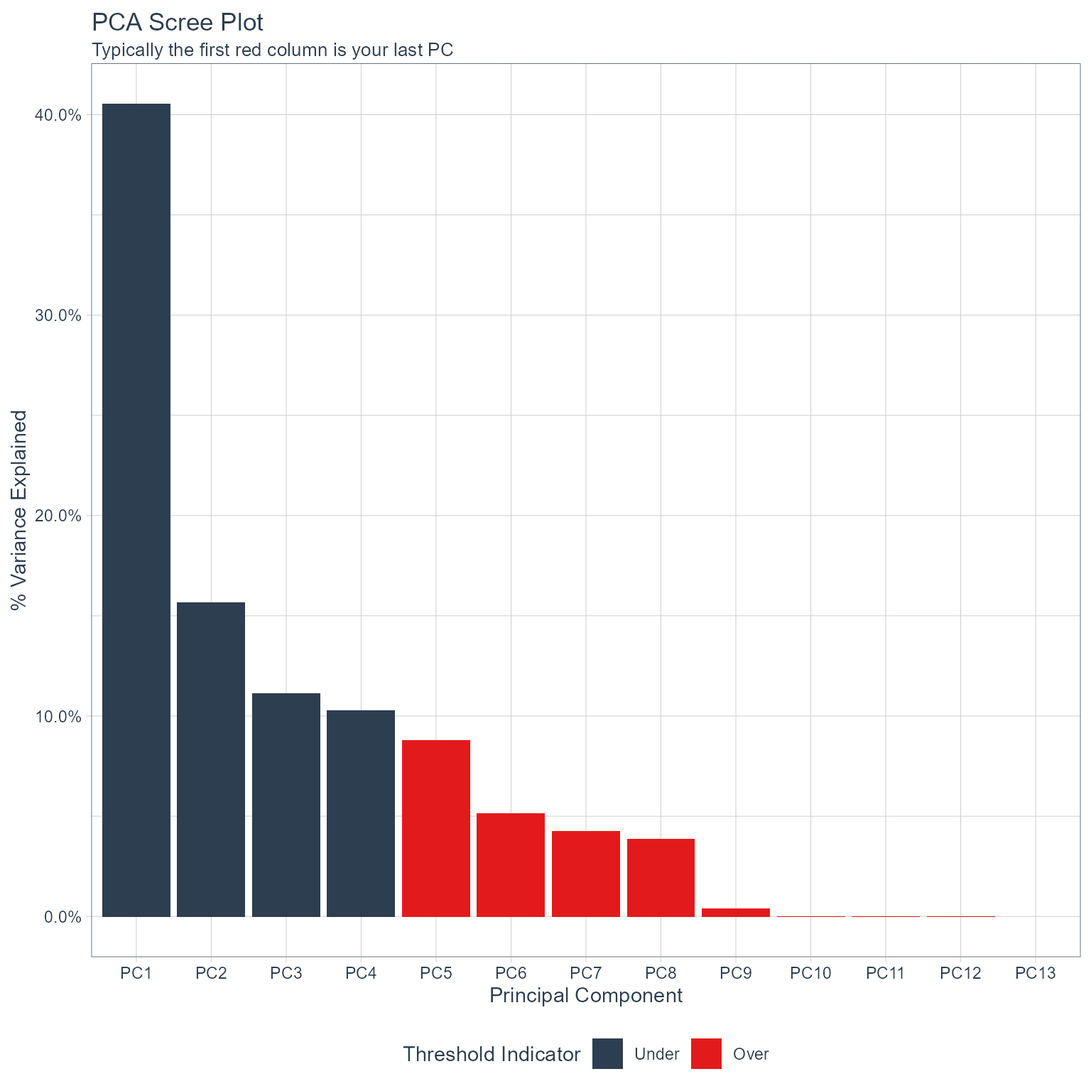
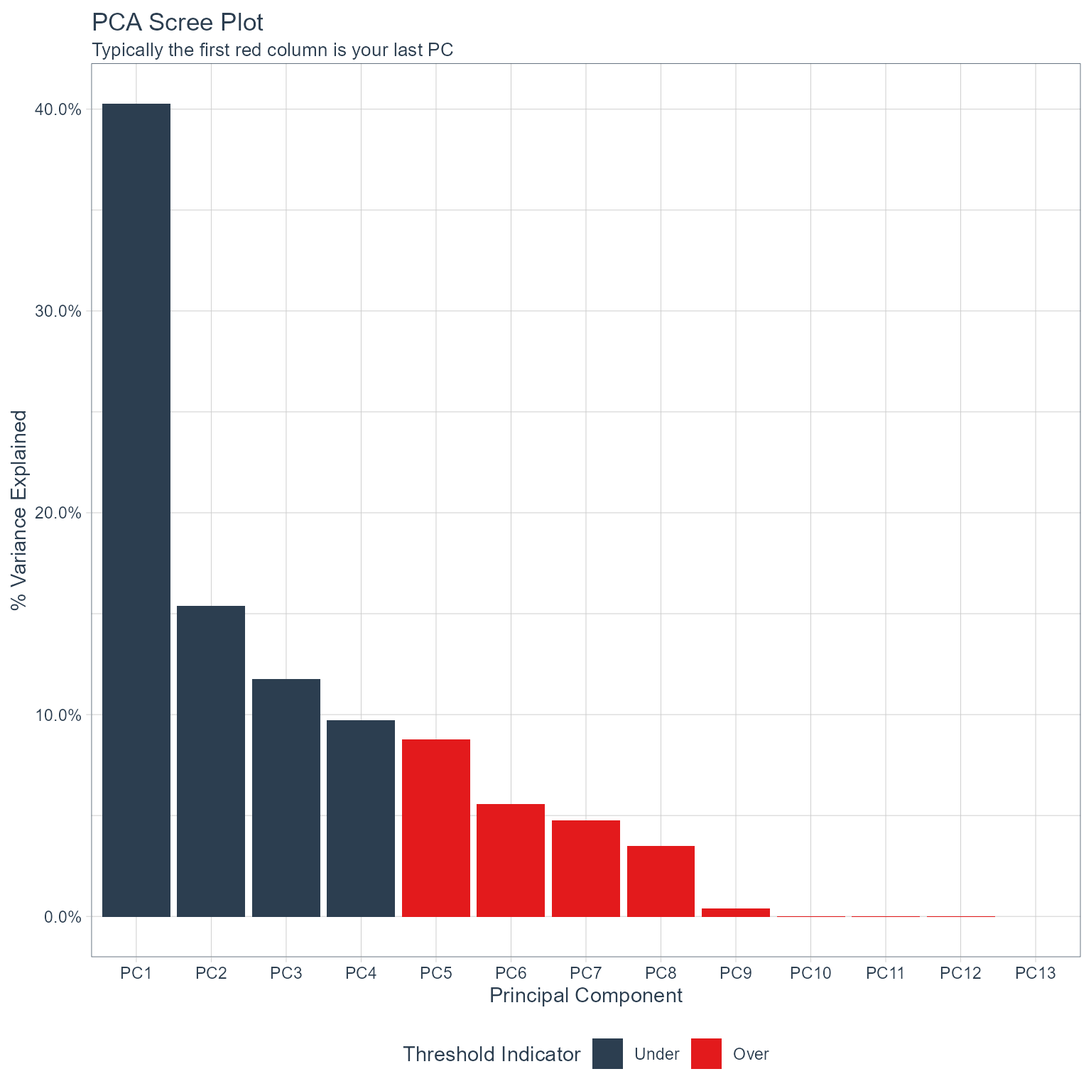
rebuild site

diff --git a/docs/articles/getting-started.html b/docs/articles/getting-started.html
@@ -37,7 +37,7 @@
       </button>
       <span class="navbar-brand">
         <a class="navbar-link" href="../index.html">healthyR.ai</a>
-        <span class="version label label-default" data-toggle="tooltip" data-placement="bottom" title="Released version">0.0.1.9000</span>
+        <span class="version label label-default" data-toggle="tooltip" data-placement="bottom" title="Released version">0.0.2</span>
       </span>
     </div>
 
@@ -173,11 +173,11 @@
 <span class="co">#&gt;   date_col            value</span>
 <span class="co">#&gt;   &lt;dttm&gt;              &lt;int&gt;</span>
 <span class="co">#&gt; 1 2018-05-01 00:00:00  1677</span>
-<span class="co">#&gt; 2 2013-05-01 00:00:00  2028</span>
-<span class="co">#&gt; 3 2018-08-01 00:00:00  1609</span>
-<span class="co">#&gt; 4 2014-12-01 00:00:00  1757</span>
-<span class="co">#&gt; 5 2015-08-01 00:00:00  1609</span>
-<span class="co">#&gt; 6 2015-12-01 00:00:00  1571</span></code></pre></div>
+<span class="co">#&gt; 2 2018-12-01 00:00:00  1397</span>
+<span class="co">#&gt; 3 2014-11-01 00:00:00  1464</span>
+<span class="co">#&gt; 4 2016-01-01 00:00:00  1510</span>
+<span class="co">#&gt; 5 2014-12-01 00:00:00  1757</span>
+<span class="co">#&gt; 6 2019-09-01 00:00:00  1364</span></code></pre></div>
 </div>
 <div id="initial-recipe" class="section level2">
 <h2 class="hasAnchor">
@@ -204,25 +204,25 @@
 <span class="fu"><a href="../reference/get_juiced_data.html">get_juiced_data</a></span><span class="op">(</span><span class="va">rec_obj</span><span class="op">)</span> <span class="op">%&gt;%</span> <span class="fu"><a href="https://pillar.r-lib.org/reference/glimpse.html">glimpse</a></span><span class="op">(</span><span class="op">)</span>
 <span class="co">#&gt; Rows: 76</span>
 <span class="co">#&gt; Columns: 20</span>
-<span class="co">#&gt; $ date_col           &lt;dttm&gt; 2018-05-01, 2013-05-01, 2018-08-01, 2014-12-01, 20~</span>
-<span class="co">#&gt; $ value              &lt;int&gt; 1677, 2028, 1609, 1757, 1609, 1571, 1607, 1513, 161~</span>
-<span class="co">#&gt; $ date_col_index.num &lt;dbl&gt; 1525132800, 1367366400, 1533081600, 1417392000, 143~</span>
-<span class="co">#&gt; $ date_col_year      &lt;int&gt; 2018, 2013, 2018, 2014, 2015, 2015, 2017, 2016, 201~</span>
-<span class="co">#&gt; $ date_col_half      &lt;int&gt; 1, 1, 2, 2, 2, 2, 2, 2, 1, 2, 1, 1, 2, 2, 1, 2, 1, ~</span>
-<span class="co">#&gt; $ date_col_quarter   &lt;int&gt; 2, 2, 3, 4, 3, 4, 3, 4, 2, 4, 1, 1, 4, 3, 1, 4, 1, ~</span>
-<span class="co">#&gt; $ date_col_month     &lt;int&gt; 5, 5, 8, 12, 8, 12, 8, 11, 4, 12, 3, 3, 11, 9, 2, 1~</span>
-<span class="co">#&gt; $ date_col_month.lbl &lt;ord&gt; May, May, August, December, August, December, Augus~</span>
+<span class="co">#&gt; $ date_col           &lt;dttm&gt; 2018-05-01, 2018-12-01, 2014-11-01, 2016-01-01, 20~</span>
+<span class="co">#&gt; $ value              &lt;int&gt; 1677, 1397, 1464, 1510, 1757, 1364, 1444, 313, 2082~</span>
+<span class="co">#&gt; $ date_col_index.num &lt;dbl&gt; 1525132800, 1543622400, 1414800000, 1451606400, 141~</span>
+<span class="co">#&gt; $ date_col_year      &lt;int&gt; 2018, 2018, 2014, 2016, 2014, 2019, 2016, 2020, 201~</span>
+<span class="co">#&gt; $ date_col_half      &lt;int&gt; 1, 2, 2, 1, 2, 2, 2, 2, 1, 2, 2, 1, 1, 2, 1, 1, 1, ~</span>
+<span class="co">#&gt; $ date_col_quarter   &lt;int&gt; 2, 4, 4, 1, 4, 3, 3, 4, 1, 4, 4, 2, 2, 3, 2, 1, 1, ~</span>
+<span class="co">#&gt; $ date_col_month     &lt;int&gt; 5, 12, 11, 1, 12, 9, 7, 11, 1, 12, 10, 5, 4, 7, 4, ~</span>
+<span class="co">#&gt; $ date_col_month.lbl &lt;ord&gt; May, December, November, January, December, Septemb~</span>
 <span class="co">#&gt; $ date_col_day       &lt;int&gt; 1, 1, 1, 1, 1, 1, 1, 1, 1, 1, 1, 1, 1, 1, 1, 1, 1, ~</span>
-<span class="co">#&gt; $ date_col_wday      &lt;int&gt; 3, 4, 4, 2, 7, 3, 3, 3, 1, 1, 1, 6, 6, 1, 5, 1, 3, ~</span>
-<span class="co">#&gt; $ date_col_wday.lbl  &lt;ord&gt; Tuesday, Wednesday, Wednesday, Monday, Saturday, Tu~</span>
+<span class="co">#&gt; $ date_col_wday      &lt;int&gt; 3, 7, 7, 6, 2, 1, 6, 1, 3, 1, 4, 6, 2, 1, 6, 1, 7, ~</span>
+<span class="co">#&gt; $ date_col_wday.lbl  &lt;ord&gt; Tuesday, Saturday, Saturday, Friday, Monday, Sunday~</span>
 <span class="co">#&gt; $ date_col_mday      &lt;int&gt; 1, 1, 1, 1, 1, 1, 1, 1, 1, 1, 1, 1, 1, 1, 1, 1, 1, ~</span>
-<span class="co">#&gt; $ date_col_qday      &lt;int&gt; 31, 31, 32, 62, 32, 62, 32, 32, 1, 62, 61, 60, 32, ~</span>
-<span class="co">#&gt; $ date_col_yday      &lt;int&gt; 121, 121, 213, 335, 213, 335, 213, 306, 91, 335, 61~</span>
-<span class="co">#&gt; $ date_col_mweek     &lt;int&gt; 5, 5, 5, 6, 5, 5, 6, 6, 5, 5, 5, 5, 5, 5, 5, 5, 5, ~</span>
-<span class="co">#&gt; $ date_col_week      &lt;int&gt; 18, 18, 31, 48, 31, 48, 31, 44, 13, 48, 9, 9, 44, 3~</span>
-<span class="co">#&gt; $ date_col_week2     &lt;int&gt; 0, 0, 1, 0, 1, 0, 1, 0, 1, 0, 1, 1, 0, 1, 1, 0, 1, ~</span>
-<span class="co">#&gt; $ date_col_week3     &lt;int&gt; 0, 0, 1, 0, 1, 0, 1, 2, 1, 0, 0, 0, 2, 2, 2, 2, 0, ~</span>
-<span class="co">#&gt; $ date_col_week4     &lt;int&gt; 2, 2, 3, 0, 3, 0, 3, 0, 1, 0, 1, 1, 0, 3, 1, 0, 1, ~</span>
+<span class="co">#&gt; $ date_col_qday      &lt;int&gt; 31, 62, 32, 1, 62, 63, 1, 32, 1, 62, 1, 31, 1, 1, 1~</span>
+<span class="co">#&gt; $ date_col_yday      &lt;int&gt; 121, 335, 305, 1, 335, 244, 183, 306, 1, 335, 274, ~</span>
+<span class="co">#&gt; $ date_col_mweek     &lt;int&gt; 5, 5, 5, 5, 6, 5, 5, 5, 6, 5, 5, 5, 6, 5, 5, 5, 5, ~</span>
+<span class="co">#&gt; $ date_col_week      &lt;int&gt; 18, 48, 44, 1, 48, 35, 27, 44, 1, 48, 40, 18, 13, 2~</span>
+<span class="co">#&gt; $ date_col_week2     &lt;int&gt; 0, 0, 0, 1, 0, 1, 1, 0, 1, 0, 0, 0, 1, 0, 0, 1, 1, ~</span>
+<span class="co">#&gt; $ date_col_week3     &lt;int&gt; 0, 0, 2, 1, 0, 2, 0, 2, 1, 0, 1, 0, 1, 2, 2, 1, 0, ~</span>
+<span class="co">#&gt; $ date_col_week4     &lt;int&gt; 2, 0, 0, 1, 0, 3, 3, 0, 1, 0, 0, 2, 1, 2, 2, 1, 1, ~</span>
 <span class="co">#&gt; $ date_col_mday7     &lt;int&gt; 1, 1, 1, 1, 1, 1, 1, 1, 1, 1, 1, 1, 1, 1, 1, 1, 1, ~</span></code></pre></div>
 <p>Now that we have out initial recipe we can use the <code><a href="../reference/pca_your_recipe.html">pca_your_recipe()</a></code> function.</p>
 <div class="sourceCode" id="cb6"><pre class="downlit sourceCode r">
@@ -284,18 +284,18 @@
 <div class="sourceCode" id="cb8"><pre class="downlit sourceCode r">
 <code class="sourceCode R"><span class="va">pca_list</span><span class="op">$</span><span class="va">variable_loadings</span>
 <span class="co">#&gt; # A tibble: 169 x 4</span>
-<span class="co">#&gt;    terms                value component id       </span>
-<span class="co">#&gt;    &lt;chr&gt;                &lt;dbl&gt; &lt;chr&gt;     &lt;chr&gt;    </span>
-<span class="co">#&gt;  1 date_col_index.num -0.0734 PC1       pca_EWIda</span>
-<span class="co">#&gt;  2 date_col_year      -0.0172 PC1       pca_EWIda</span>
-<span class="co">#&gt;  3 date_col_half      -0.389  PC1       pca_EWIda</span>
-<span class="co">#&gt;  4 date_col_quarter   -0.430  PC1       pca_EWIda</span>
-<span class="co">#&gt;  5 date_col_month     -0.432  PC1       pca_EWIda</span>
-<span class="co">#&gt;  6 date_col_wday       0.0135 PC1       pca_EWIda</span>
-<span class="co">#&gt;  7 date_col_qday      -0.0575 PC1       pca_EWIda</span>
-<span class="co">#&gt;  8 date_col_yday      -0.432  PC1       pca_EWIda</span>
-<span class="co">#&gt;  9 date_col_mweek      0.0110 PC1       pca_EWIda</span>
-<span class="co">#&gt; 10 date_col_week      -0.433  PC1       pca_EWIda</span>
+<span class="co">#&gt;    terms                 value component id       </span>
+<span class="co">#&gt;    &lt;chr&gt;                 &lt;dbl&gt; &lt;chr&gt;     &lt;chr&gt;    </span>
+<span class="co">#&gt;  1 date_col_index.num -0.0911  PC1       pca_O7eW2</span>
+<span class="co">#&gt;  2 date_col_year      -0.0361  PC1       pca_O7eW2</span>
+<span class="co">#&gt;  3 date_col_half      -0.381   PC1       pca_O7eW2</span>
+<span class="co">#&gt;  4 date_col_quarter   -0.430   PC1       pca_O7eW2</span>
+<span class="co">#&gt;  5 date_col_month     -0.433   PC1       pca_O7eW2</span>
+<span class="co">#&gt;  6 date_col_wday       0.0227  PC1       pca_O7eW2</span>
+<span class="co">#&gt;  7 date_col_qday      -0.0751  PC1       pca_O7eW2</span>
+<span class="co">#&gt;  8 date_col_yday      -0.434   PC1       pca_O7eW2</span>
+<span class="co">#&gt;  9 date_col_mweek      0.00602 PC1       pca_O7eW2</span>
+<span class="co">#&gt; 10 date_col_week      -0.434   PC1       pca_O7eW2</span>
 <span class="co">#&gt; # ... with 159 more rows</span></code></pre></div>
 </div>
 <div id="variable-variance" class="section level2">
@@ -306,16 +306,16 @@
 <span class="co">#&gt; # A tibble: 52 x 4</span>
 <span class="co">#&gt;    terms       value component id       </span>
 <span class="co">#&gt;    &lt;chr&gt;       &lt;dbl&gt;     &lt;int&gt; &lt;chr&gt;    </span>
-<span class="co">#&gt;  1 variance 5.27             1 pca_EWIda</span>
-<span class="co">#&gt;  2 variance 2.04             2 pca_EWIda</span>
-<span class="co">#&gt;  3 variance 1.44             3 pca_EWIda</span>
-<span class="co">#&gt;  4 variance 1.34             4 pca_EWIda</span>
-<span class="co">#&gt;  5 variance 1.14             5 pca_EWIda</span>
-<span class="co">#&gt;  6 variance 0.668            6 pca_EWIda</span>
-<span class="co">#&gt;  7 variance 0.551            7 pca_EWIda</span>
-<span class="co">#&gt;  8 variance 0.501            8 pca_EWIda</span>
-<span class="co">#&gt;  9 variance 0.0505           9 pca_EWIda</span>
-<span class="co">#&gt; 10 variance 0.000188        10 pca_EWIda</span>
+<span class="co">#&gt;  1 variance 5.23             1 pca_O7eW2</span>
+<span class="co">#&gt;  2 variance 2.00             2 pca_O7eW2</span>
+<span class="co">#&gt;  3 variance 1.53             3 pca_O7eW2</span>
+<span class="co">#&gt;  4 variance 1.26             4 pca_O7eW2</span>
+<span class="co">#&gt;  5 variance 1.14             5 pca_O7eW2</span>
+<span class="co">#&gt;  6 variance 0.722            6 pca_O7eW2</span>
+<span class="co">#&gt;  7 variance 0.616            7 pca_O7eW2</span>
+<span class="co">#&gt;  8 variance 0.453            8 pca_O7eW2</span>
+<span class="co">#&gt;  9 variance 0.0507           9 pca_O7eW2</span>
+<span class="co">#&gt; 10 variance 0.000201        10 pca_O7eW2</span>
 <span class="co">#&gt; # ... with 42 more rows</span></code></pre></div>
 </div>
 <div id="pca-estimates" class="section level2">
@@ -349,28 +349,28 @@
 <code class="sourceCode R"><span class="va">pca_list</span><span class="op">$</span><span class="va">pca_juiced_estimates</span> <span class="op">%&gt;%</span> <span class="fu"><a href="https://pillar.r-lib.org/reference/glimpse.html">glimpse</a></span><span class="op">(</span><span class="op">)</span>
 <span class="co">#&gt; Rows: 76</span>
 <span class="co">#&gt; Columns: 9</span>
-<span class="co">#&gt; $ date_col           &lt;dttm&gt; 2018-05-01, 2013-05-01, 2018-08-01, 2014-12-01, 20~</span>
-<span class="co">#&gt; $ value              &lt;dbl&gt; 0.44420607, 1.70467211, 0.20001322, 0.73149178, 0.2~</span>
-<span class="co">#&gt; $ date_col_month.lbl &lt;ord&gt; May, May, August, December, August, December, Augus~</span>
-<span class="co">#&gt; $ date_col_wday.lbl  &lt;ord&gt; Tuesday, Wednesday, Wednesday, Monday, Saturday, Tu~</span>
-<span class="co">#&gt; $ PC1                &lt;dbl&gt; 0.7951243, 0.9976041, -0.8295440, -3.3003520, -0.69~</span>
-<span class="co">#&gt; $ PC2                &lt;dbl&gt; 1.024719161, -1.863790151, 1.398547689, -1.81996574~</span>
-<span class="co">#&gt; $ PC3                &lt;dbl&gt; 0.43940868, 1.29982289, 0.12845365, 0.05336317, 1.0~</span>
-<span class="co">#&gt; $ PC4                &lt;dbl&gt; 1.29280377, 0.71857687, -1.44845494, 1.45857520, -2~</span>
-<span class="co">#&gt; $ PC5                &lt;dbl&gt; 0.46379617, 0.29497541, 0.63780872, 2.01417510, -0.~</span>
+<span class="co">#&gt; $ date_col           &lt;dttm&gt; 2018-05-01, 2018-12-01, 2014-11-01, 2016-01-01, 20~</span>
+<span class="co">#&gt; $ value              &lt;dbl&gt; 0.489147039, -0.581963167, -0.325661797, -0.1496936~</span>
+<span class="co">#&gt; $ date_col_month.lbl &lt;ord&gt; May, December, November, January, December, Septemb~</span>
+<span class="co">#&gt; $ date_col_wday.lbl  &lt;ord&gt; Tuesday, Saturday, Saturday, Friday, Monday, Sunday~</span>
+<span class="co">#&gt; $ PC1                &lt;dbl&gt; 0.98576710, -3.36711466, -2.81740620, 3.43770985, -~</span>
+<span class="co">#&gt; $ PC2                &lt;dbl&gt; -1.2333184, -0.6006759, 1.9189345, 0.2078034, 1.309~</span>
+<span class="co">#&gt; $ PC3                &lt;dbl&gt; 0.79955167, 2.27476536, 0.19668101, 0.11560231, -0.~</span>
+<span class="co">#&gt; $ PC4                &lt;dbl&gt; 0.91467939, 0.71823991, 0.06161711, 0.14290868, 1.6~</span>
+<span class="co">#&gt; $ PC5                &lt;dbl&gt; -0.51312317, 0.21313366, 1.64116030, 1.48569679, -2~</span>
 
 <span class="va">pca_list</span><span class="op">$</span><span class="va">pca_baked_data</span> <span class="op">%&gt;%</span> <span class="fu"><a href="https://pillar.r-lib.org/reference/glimpse.html">glimpse</a></span><span class="op">(</span><span class="op">)</span>
 <span class="co">#&gt; Rows: 95</span>
 <span class="co">#&gt; Columns: 9</span>
 <span class="co">#&gt; $ date_col           &lt;dttm&gt; 2013-01-01, 2013-02-01, 2013-03-01, 2013-04-01, 20~</span>
-<span class="co">#&gt; $ value              &lt;dbl&gt; 1.8985900, 0.5950311, 0.8715436, 1.1193275, 1.70467~</span>
+<span class="co">#&gt; $ value              &lt;dbl&gt; 2.0384314, 0.6498136, 0.9443689, 1.2083210, 1.83186~</span>
 <span class="co">#&gt; $ date_col_month.lbl &lt;ord&gt; January, February, March, April, May, June, July, A~</span>
 <span class="co">#&gt; $ date_col_wday.lbl  &lt;ord&gt; Tuesday, Friday, Friday, Monday, Wednesday, Saturda~</span>
-<span class="co">#&gt; $ PC1                &lt;dbl&gt; 3.2879812, 2.7874888, 2.5187066, 1.8687052, 0.99760~</span>
-<span class="co">#&gt; $ PC2                &lt;dbl&gt; -2.4542472, -1.9187254, -1.6260462, -2.4724542, -1.~</span>
-<span class="co">#&gt; $ PC3                &lt;dbl&gt; -1.52175229, 0.64276524, 2.24486408, -1.65631811, 1~</span>
-<span class="co">#&gt; $ PC4                &lt;dbl&gt; 0.09491197, -1.07798995, 0.29077488, 0.17204592, 0.~</span>
-<span class="co">#&gt; $ PC5                &lt;dbl&gt; 0.36492228, -1.18259550, 0.23267614, 0.74314900, 0.~</span></code></pre></div>
+<span class="co">#&gt; $ PC1                &lt;dbl&gt; 3.5837155, 3.0869114, 2.7723249, 2.1209751, 1.27299~</span>
+<span class="co">#&gt; $ PC2                &lt;dbl&gt; 1.6382029, 2.2004170, 2.0830633, 1.6259727, 1.83570~</span>
+<span class="co">#&gt; $ PC3                &lt;dbl&gt; -2.021317505, -0.009637394, 1.775013029, -2.1812898~</span>
+<span class="co">#&gt; $ PC4                &lt;dbl&gt; 0.82407769, -0.29633646, 0.48156940, 0.80256384, 0.~</span>
+<span class="co">#&gt; $ PC5                &lt;dbl&gt; -0.36560302, 1.03957581, -0.60071472, -0.69735895, ~</span></code></pre></div>
 </div>
 <div id="roatation-data" class="section level2">
 <h2 class="hasAnchor">
@@ -379,19 +379,19 @@
 <code class="sourceCode R"><span class="va">pca_list</span><span class="op">$</span><span class="va">pca_rotation_df</span> <span class="op">%&gt;%</span> <span class="fu"><a href="https://pillar.r-lib.org/reference/glimpse.html">glimpse</a></span><span class="op">(</span><span class="op">)</span>
 <span class="co">#&gt; Rows: 13</span>
 <span class="co">#&gt; Columns: 13</span>
-<span class="co">#&gt; $ PC1  &lt;dbl&gt; -0.07342951, -0.01722814, -0.38888905, -0.42961444, -0.43223047, ~</span>
-<span class="co">#&gt; $ PC2  &lt;dbl&gt; 0.673262059, 0.680910806, 0.006616319, -0.028768692, -0.007279424~</span>
-<span class="co">#&gt; $ PC3  &lt;dbl&gt; -0.15042518, -0.15944144, -0.09489832, -0.07889143, 0.05890836, 0~</span>
-<span class="co">#&gt; $ PC4  &lt;dbl&gt; 0.09610008, 0.10084495, -0.25177677, -0.01804387, -0.02726268, -0~</span>
-<span class="co">#&gt; $ PC5  &lt;dbl&gt; -1.456364e-02, -2.373429e-02, 4.509555e-05, -4.172353e-02, 6.9909~</span>
-<span class="co">#&gt; $ PC6  &lt;dbl&gt; -0.003400719, -0.002163532, 0.042757378, -0.040419757, -0.0112554~</span>
-<span class="co">#&gt; $ PC7  &lt;dbl&gt; 0.071493154, 0.072864507, -0.299697592, -0.129861375, -0.00790362~</span>
-<span class="co">#&gt; $ PC8  &lt;dbl&gt; -0.013757290, -0.007292406, -0.210675968, -0.007845576, -0.046858~</span>
-<span class="co">#&gt; $ PC9  &lt;dbl&gt; 0.005619875, -0.024384885, -0.800157086, 0.277447715, 0.226306334~</span>
-<span class="co">#&gt; $ PC10 &lt;dbl&gt; 0.0146983983, -0.0114145842, 0.0054730982, 0.2978246363, 0.375090~</span>
-<span class="co">#&gt; $ PC11 &lt;dbl&gt; -0.0242620357, 0.0246547277, -0.0015196111, -0.1589647753, 0.7153~</span>
-<span class="co">#&gt; $ PC12 &lt;dbl&gt; -2.864529e-03, 2.316738e-03, -3.076775e-03, -7.716709e-01, 3.1311~</span>
-<span class="co">#&gt; $ PC13 &lt;dbl&gt; -7.092917e-01, 7.022847e-01, 6.353486e-05, 3.649223e-02, 4.214297~</span></code></pre></div>
+<span class="co">#&gt; $ PC1  &lt;dbl&gt; -0.091111026, -0.036124528, -0.381236289, -0.429587692, -0.433436~</span>
+<span class="co">#&gt; $ PC2  &lt;dbl&gt; -0.68474560, -0.69804056, 0.03911563, 0.02651576, 0.04046726, 0.1~</span>
+<span class="co">#&gt; $ PC3  &lt;dbl&gt; 0.07504553, 0.07011375, -0.11250558, -0.07355805, 0.04627954, 0.4~</span>
+<span class="co">#&gt; $ PC4  &lt;dbl&gt; -0.03625580, -0.03086765, -0.30296172, -0.03772933, -0.04443026, ~</span>
+<span class="co">#&gt; $ PC5  &lt;dbl&gt; 0.06966827, 0.07841862, 0.02405589, 0.06877335, -0.06316054, 0.51~</span>
+<span class="co">#&gt; $ PC6  &lt;dbl&gt; -0.03634281, -0.03896635, 0.16870700, 0.12134272, 0.01901182, 0.3~</span>
+<span class="co">#&gt; $ PC7  &lt;dbl&gt; 0.021720694, 0.021373741, -0.265611302, -0.056670721, 0.004629536~</span>
+<span class="co">#&gt; $ PC8  &lt;dbl&gt; 0.06607013, 0.06219668, 0.09498312, -0.04372274, 0.03131941, 0.16~</span>
+<span class="co">#&gt; $ PC9  &lt;dbl&gt; 0.008186433, -0.020654203, -0.800021589, 0.277110192, 0.222758281~</span>
+<span class="co">#&gt; $ PC10 &lt;dbl&gt; 0.013187933, -0.011560261, 0.005192062, 0.302393640, 0.371079240,~</span>
+<span class="co">#&gt; $ PC11 &lt;dbl&gt; -0.0273624571, 0.0274549353, -0.0014510966, -0.0728516856, 0.6777~</span>
+<span class="co">#&gt; $ PC12 &lt;dbl&gt; 0.0051115311, -0.0045742637, 0.0031655601, 0.7800815172, -0.39283~</span>
+<span class="co">#&gt; $ PC13 &lt;dbl&gt; 7.098230e-01, -7.015965e-01, -1.657053e-04, -3.568541e-02, -1.511~</span></code></pre></div>
 </div>
 <div id="variance-and-scree-plot" class="section level2">
 <h2 class="hasAnchor">
@@ -401,10 +401,10 @@
 <span class="co">#&gt; Rows: 13</span>
 <span class="co">#&gt; Columns: 6</span>
 <span class="co">#&gt; $ PC              &lt;chr&gt; "PC1", "PC2", "PC3", "PC4", "PC5", "PC6", "PC7", "PC8"~</span>
-<span class="co">#&gt; $ var_explained   &lt;dbl&gt; 4.053482e-01, 1.567062e-01, 1.110410e-01, 1.028199e-01~</span>
-<span class="co">#&gt; $ var_pct_txt     &lt;chr&gt; "40.53%", "15.67%", "11.10%", "10.28%", "8.79%", "5.14~</span>
-<span class="co">#&gt; $ cum_var_pct     &lt;dbl&gt; 0.4053482, 0.5620544, 0.6730955, 0.7759153, 0.8638150,~</span>
-<span class="co">#&gt; $ cum_var_pct_txt &lt;chr&gt; "40.53%", "56.21%", "67.31%", "77.59%", "86.38%", "91.~</span>
+<span class="co">#&gt; $ var_explained   &lt;dbl&gt; 4.025582e-01, 1.538140e-01, 1.173839e-01, 9.709459e-02~</span>
+<span class="co">#&gt; $ var_pct_txt     &lt;chr&gt; "40.26%", "15.38%", "11.74%", "9.71%", "8.76%", "5.55%~</span>
+<span class="co">#&gt; $ cum_var_pct     &lt;dbl&gt; 0.4025582, 0.5563721, 0.6737561, 0.7708507, 0.8584043,~</span>
+<span class="co">#&gt; $ cum_var_pct_txt &lt;chr&gt; "40.26%", "55.64%", "67.38%", "77.09%", "85.84%", "91.~</span>
 <span class="co">#&gt; $ ou_threshold    &lt;fct&gt; Under, Under, Under, Under, Over, Over, Over, Over, Ov~</span></code></pre></div>
 <div class="sourceCode" id="cb14"><pre class="downlit sourceCode r">
 <code class="sourceCode R"><span class="va">pca_list</span><span class="op">$</span><span class="va">pca_variance_scree_plt</span></code></pre></div>

diff --git a/docs/news/index.html b/docs/news/index.html
@@ -81,7 +81,7 @@
       </button>
       <span class="navbar-brand">
         <a class="navbar-link" href="../index.html">healthyR.ai</a>
-        <span class="version label label-default" data-toggle="tooltip" data-placement="bottom" title="Released version">0.0.1.9000</span>
+        <span class="version label label-default" data-toggle="tooltip" data-placement="bottom" title="Released version">0.0.2</span>
       </span>
     </div>
 
@@ -137,9 +137,9 @@
       <small>Source: <a href='https://github.com/spsanderson/healthyR.ai/blob/master/NEWS.md'><code>NEWS.md</code></a></small>
     </div>
 
-    <div id="healthyrai-development-version" class="section level1">
-<h1 class="page-header" data-toc-text="development version">
-<a href="#healthyrai-development-version" class="anchor"></a>healthyR.ai (development version)<small> Unreleased </small>
+    <div id="healthyrai-002" class="section level1">
+<h1 class="page-header" data-toc-text="0.0.2">
+<a href="#healthyrai-002" class="anchor"></a>healthyR.ai 0.0.2<small> Unreleased </small>
 </h1>
 <div id="breaking-changes" class="section level2">
 <h2 class="hasAnchor">
@@ -164,6 +164,8 @@
 <li>Fix <a href='https://github.com/spsanderson/healthyR.ai/issues/29'>#29</a> - Add function <code><a href="../reference/pca_your_recipe.html">pca_your_recipe()</a></code>
 </li>
 <li>Fix <a href='https://github.com/spsanderson/healthyR.ai/issues/32'>#32</a> - Add function <code><a href="../reference/hai_kmeans_automl.html">hai_kmeans_automl()</a></code>
+</li>
+<li>Fix <a href='https://github.com/spsanderson/healthyR.ai/issues/49'>#49</a> - Add function <code><a href="../reference/hai_kmeans_automl_predict.html">hai_kmeans_automl_predict()</a></code>
 </li>
 </ol>
 </div>

diff --git a/docs/index.html b/docs/index.html
@@ -42,7 +42,7 @@
       </button>
       <span class="navbar-brand">
         <a class="navbar-link" href="index.html">healthyR.ai</a>
-        <span class="version label label-default" data-toggle="tooltip" data-placement="bottom" title="Released version">0.0.1.9000</span>
+        <span class="version label label-default" data-toggle="tooltip" data-placement="bottom" title="Released version">0.0.2</span>
       </span>
     </div>
 
@@ -176,7 +176,7 @@
 <h2>Dev status</h2>
 <ul class="list-unstyled">
 <li><a href="https://lifecycle.r-lib.org/articles/stages.html#experimental"><img src="https://img.shields.io/badge/lifecycle-experimental-orange.svg" alt="Lifecycle: experimental"></a></li>
-<li><a href="http://makeapullrequest.com"><img src="https://img.shields.io/badge/PRs-welcome-brightgreen.svg?style=flat-square" alt="PRs Welcome"></a></li>
+<li><a href="https://makeapullrequest.com"><img src="https://img.shields.io/badge/PRs-welcome-brightgreen.svg?style=flat-square" alt="PRs Welcome"></a></li>
 </ul>
 </div>
 </div>

diff --git a/docs/reference/hai_kmeans_scree_data_tbl.html b/docs/reference/hai_kmeans_scree_data_tbl.html
@@ -83,7 +83,7 @@ tibble for inspection and for use in the hai_kmeans_scree_plt() function." />
       </button>
       <span class="navbar-brand">
         <a class="navbar-link" href="../index.html">healthyR.ai</a>
-        <span class="version label label-default" data-toggle="tooltip" data-placement="bottom" title="Released version">0.0.1.9000</span>
+        <span class="version label label-default" data-toggle="tooltip" data-placement="bottom" title="Released version">0.0.2</span>
       </span>
     </div>
 

diff --git a/docs/reference/hai_kmeans_automl.html b/docs/reference/hai_kmeans_automl.html
@@ -83,7 +83,7 @@ object with a lot of useful and easy to use tidy style information." />
       </button>
       <span class="navbar-brand">
         <a class="navbar-link" href="../index.html">healthyR.ai</a>
-        <span class="version label label-default" data-toggle="tooltip" data-placement="bottom" title="Released version">0.0.1.9000</span>
+        <span class="version label label-default" data-toggle="tooltip" data-placement="bottom" title="Released version">0.0.2</span>
       </span>
     </div>
 

diff --git a/docs/reference/hai_kmeans_automl_predict.html b/docs/reference/hai_kmeans_automl_predict.html
@@ -83,7 +83,7 @@ object with a lot of useful and easy to use tidy style information." />
       </button>
       <span class="navbar-brand">
         <a class="navbar-link" href="../index.html">healthyR.ai</a>
-        <span class="version label label-default" data-toggle="tooltip" data-placement="bottom" title="Released version">0.0.1.9000</span>
+        <span class="version label label-default" data-toggle="tooltip" data-placement="bottom" title="Released version">0.0.2</span>
       </span>
     </div>
 

diff --git a/docs/reference/hai_kmeans_obj.html b/docs/reference/hai_kmeans_obj.html
@@ -83,7 +83,7 @@ k-means algorithm to it using stats::kmeans()" />
       </button>
       <span class="navbar-brand">
         <a class="navbar-link" href="../index.html">healthyR.ai</a>
-        <span class="version label label-default" data-toggle="tooltip" data-placement="bottom" title="Released version">0.0.1.9000</span>
+        <span class="version label label-default" data-toggle="tooltip" data-placement="bottom" title="Released version">0.0.2</span>
       </span>
     </div>
 

diff --git a/docs/reference/hai_control_chart.html b/docs/reference/hai_control_chart.html
@@ -83,7 +83,7 @@ https://en.wikipedia.org/wiki/Control_chart." />
       </button>
       <span class="navbar-brand">
         <a class="navbar-link" href="../index.html">healthyR.ai</a>
-        <span class="version label label-default" data-toggle="tooltip" data-placement="bottom" title="Released version">0.0.1.9000</span>
+        <span class="version label label-default" data-toggle="tooltip" data-placement="bottom" title="Released version">0.0.2</span>
       </span>
     </div>
 

diff --git a/docs/reference/hai_kmeans_user_item_tbl.html b/docs/reference/hai_kmeans_user_item_tbl.html
@@ -84,7 +84,7 @@ for the rows/user and the columns/items." />
       </button>
       <span class="navbar-brand">
         <a class="navbar-link" href="../index.html">healthyR.ai</a>
-        <span class="version label label-default" data-toggle="tooltip" data-placement="bottom" title="Released version">0.0.1.9000</span>
+        <span class="version label label-default" data-toggle="tooltip" data-placement="bottom" title="Released version">0.0.2</span>
       </span>
     </div>
 

diff --git a/docs/reference/hai_kmeans_mapped_tbl.html b/docs/reference/hai_kmeans_mapped_tbl.html
@@ -84,7 +84,7 @@ used to help create a scree plot." />
       </button>
       <span class="navbar-brand">
         <a class="navbar-link" href="../index.html">healthyR.ai</a>
-        <span class="version label label-default" data-toggle="tooltip" data-placement="bottom" title="Released version">0.0.1.9000</span>
+        <span class="version label label-default" data-toggle="tooltip" data-placement="bottom" title="Released version">0.0.2</span>
       </span>
     </div>
 

diff --git a/docs/reference/tidyeval.html b/docs/reference/tidyeval.html
@@ -114,7 +114,7 @@ section of Advanced R." />
       </button>
       <span class="navbar-brand">
         <a class="navbar-link" href="../index.html">healthyR.ai</a>
-        <span class="version label label-default" data-toggle="tooltip" data-placement="bottom" title="Released version">0.0.1.9000</span>
+        <span class="version label label-default" data-toggle="tooltip" data-placement="bottom" title="Released version">0.0.2</span>
       </span>
     </div>
 

diff --git a/docs/articles/index.html b/docs/articles/index.html
@@ -81,7 +81,7 @@
       </button>
       <span class="navbar-brand">
         <a class="navbar-link" href="../index.html">healthyR.ai</a>
-        <span class="version label label-default" data-toggle="tooltip" data-placement="bottom" title="Released version">0.0.1.9000</span>
+        <span class="version label label-default" data-toggle="tooltip" data-placement="bottom" title="Released version">0.0.2</span>
       </span>
     </div>
 
